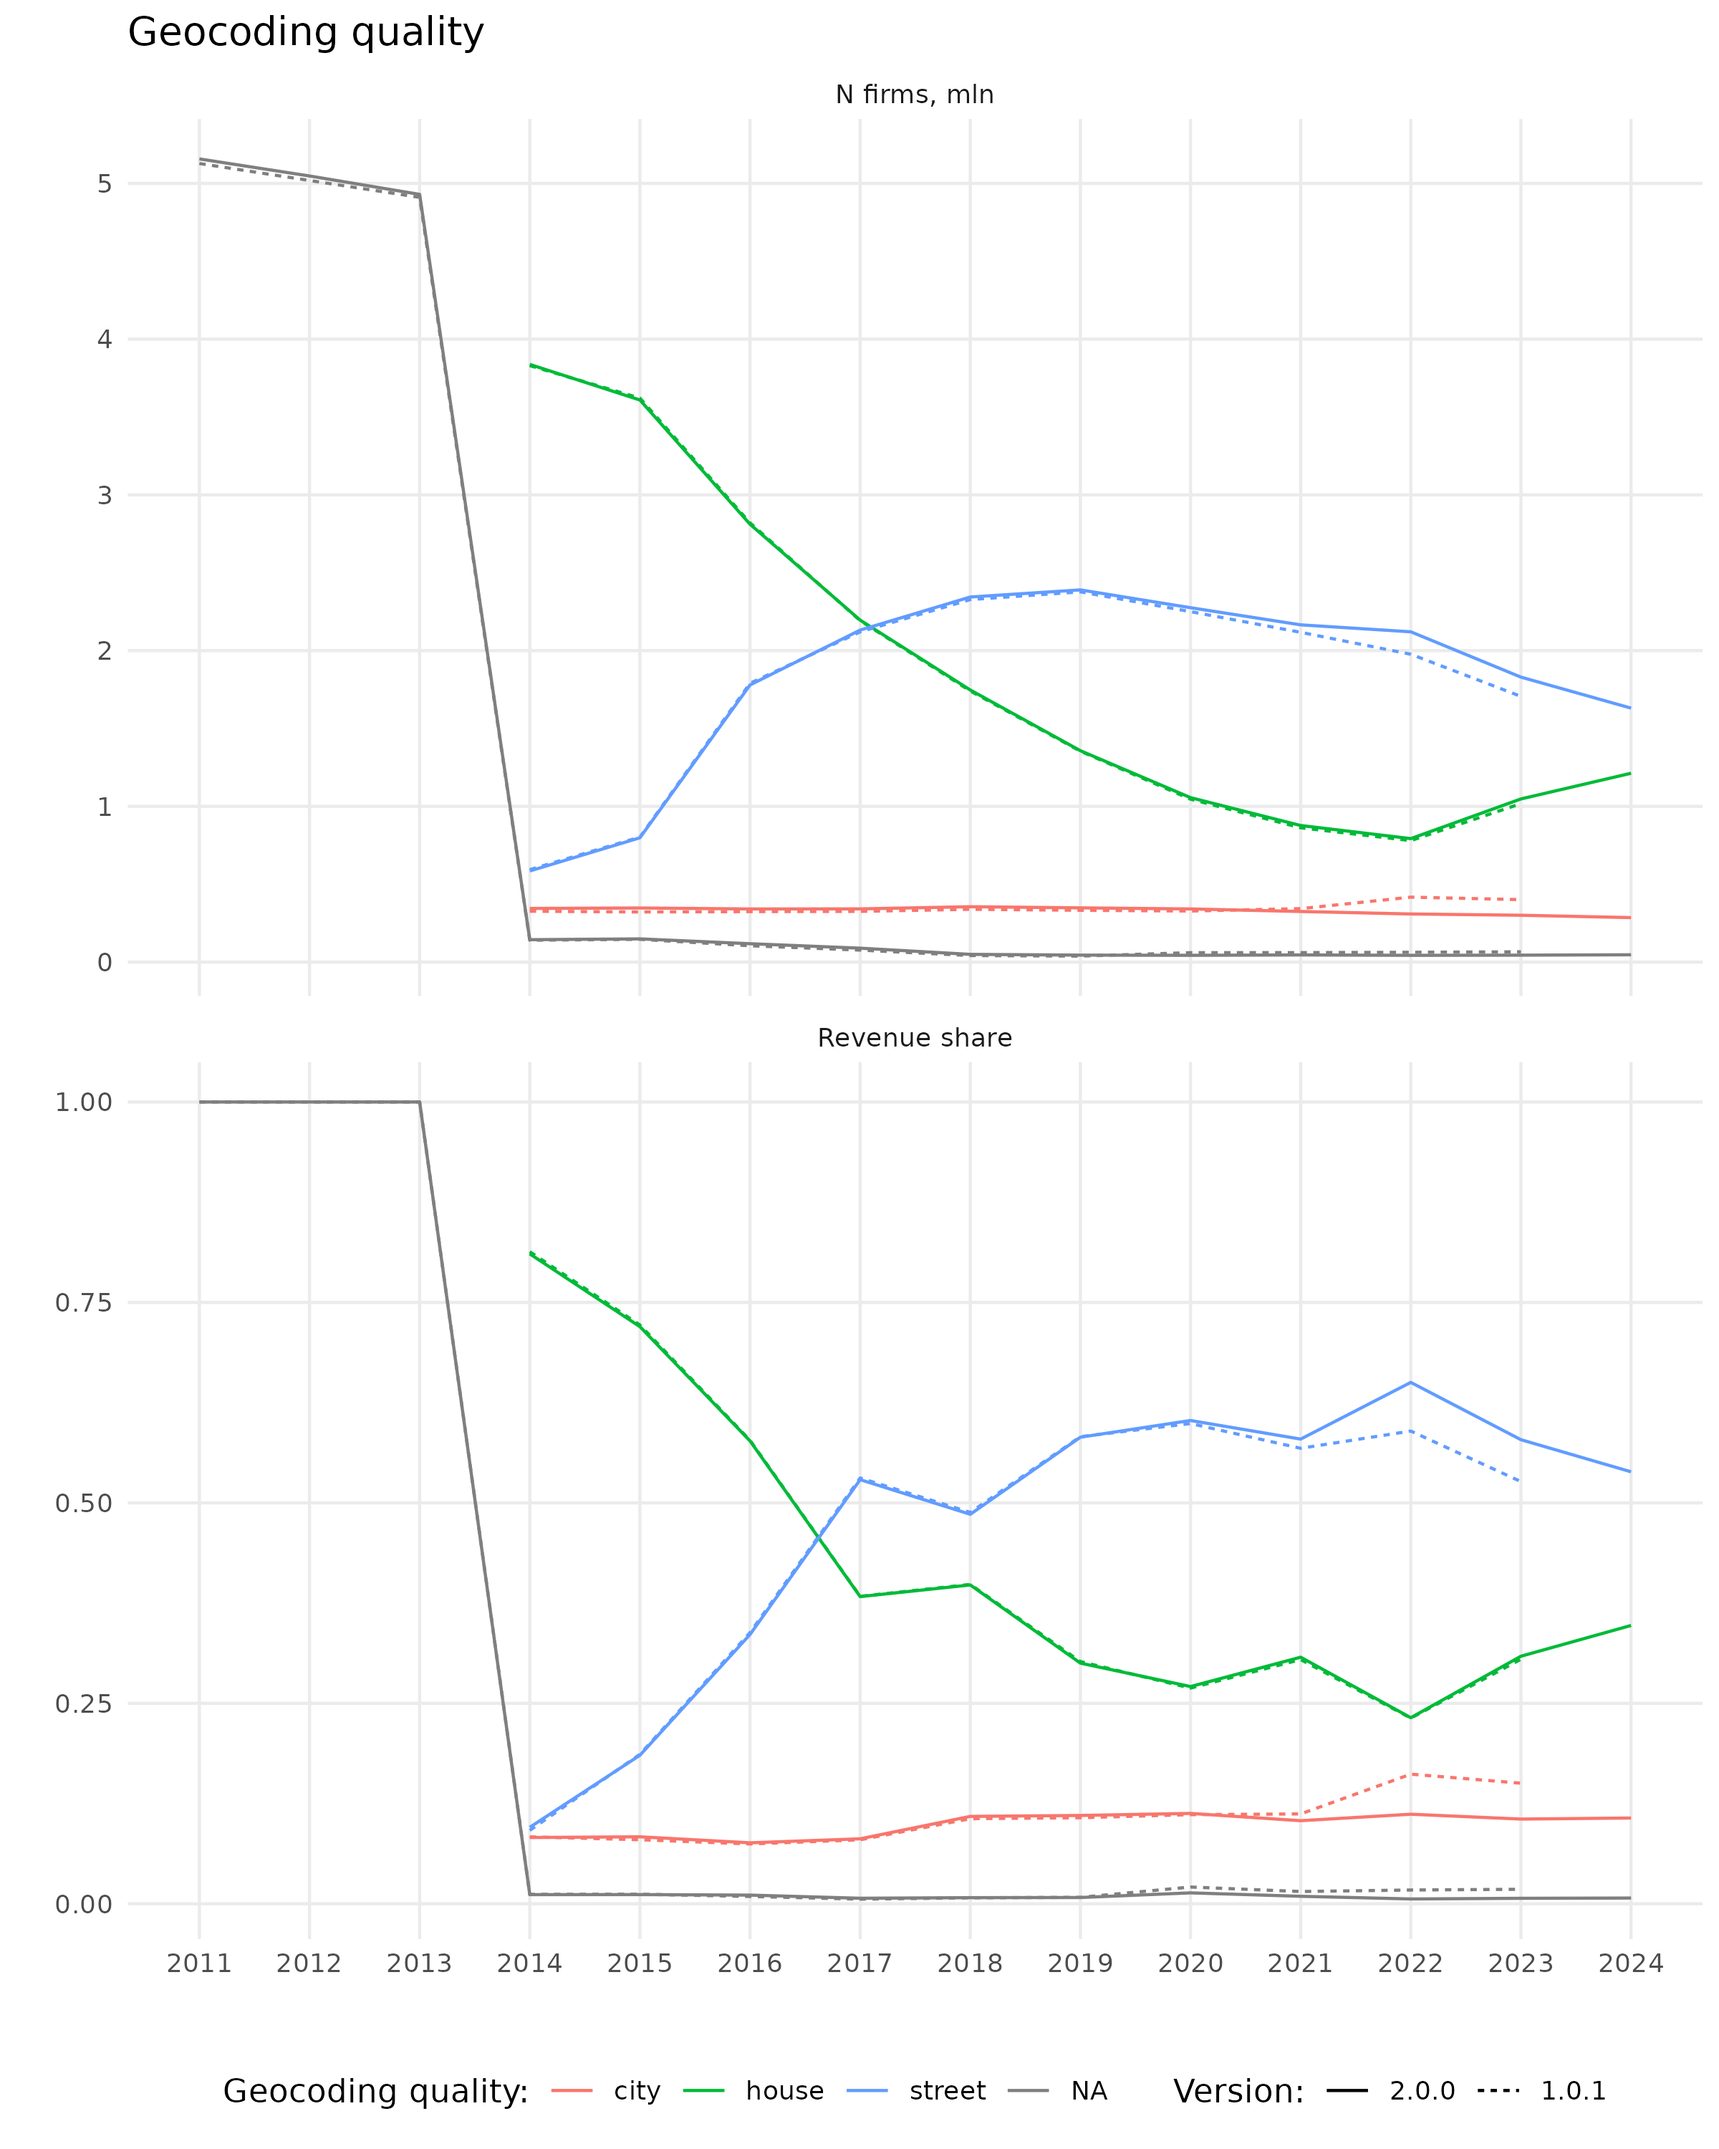
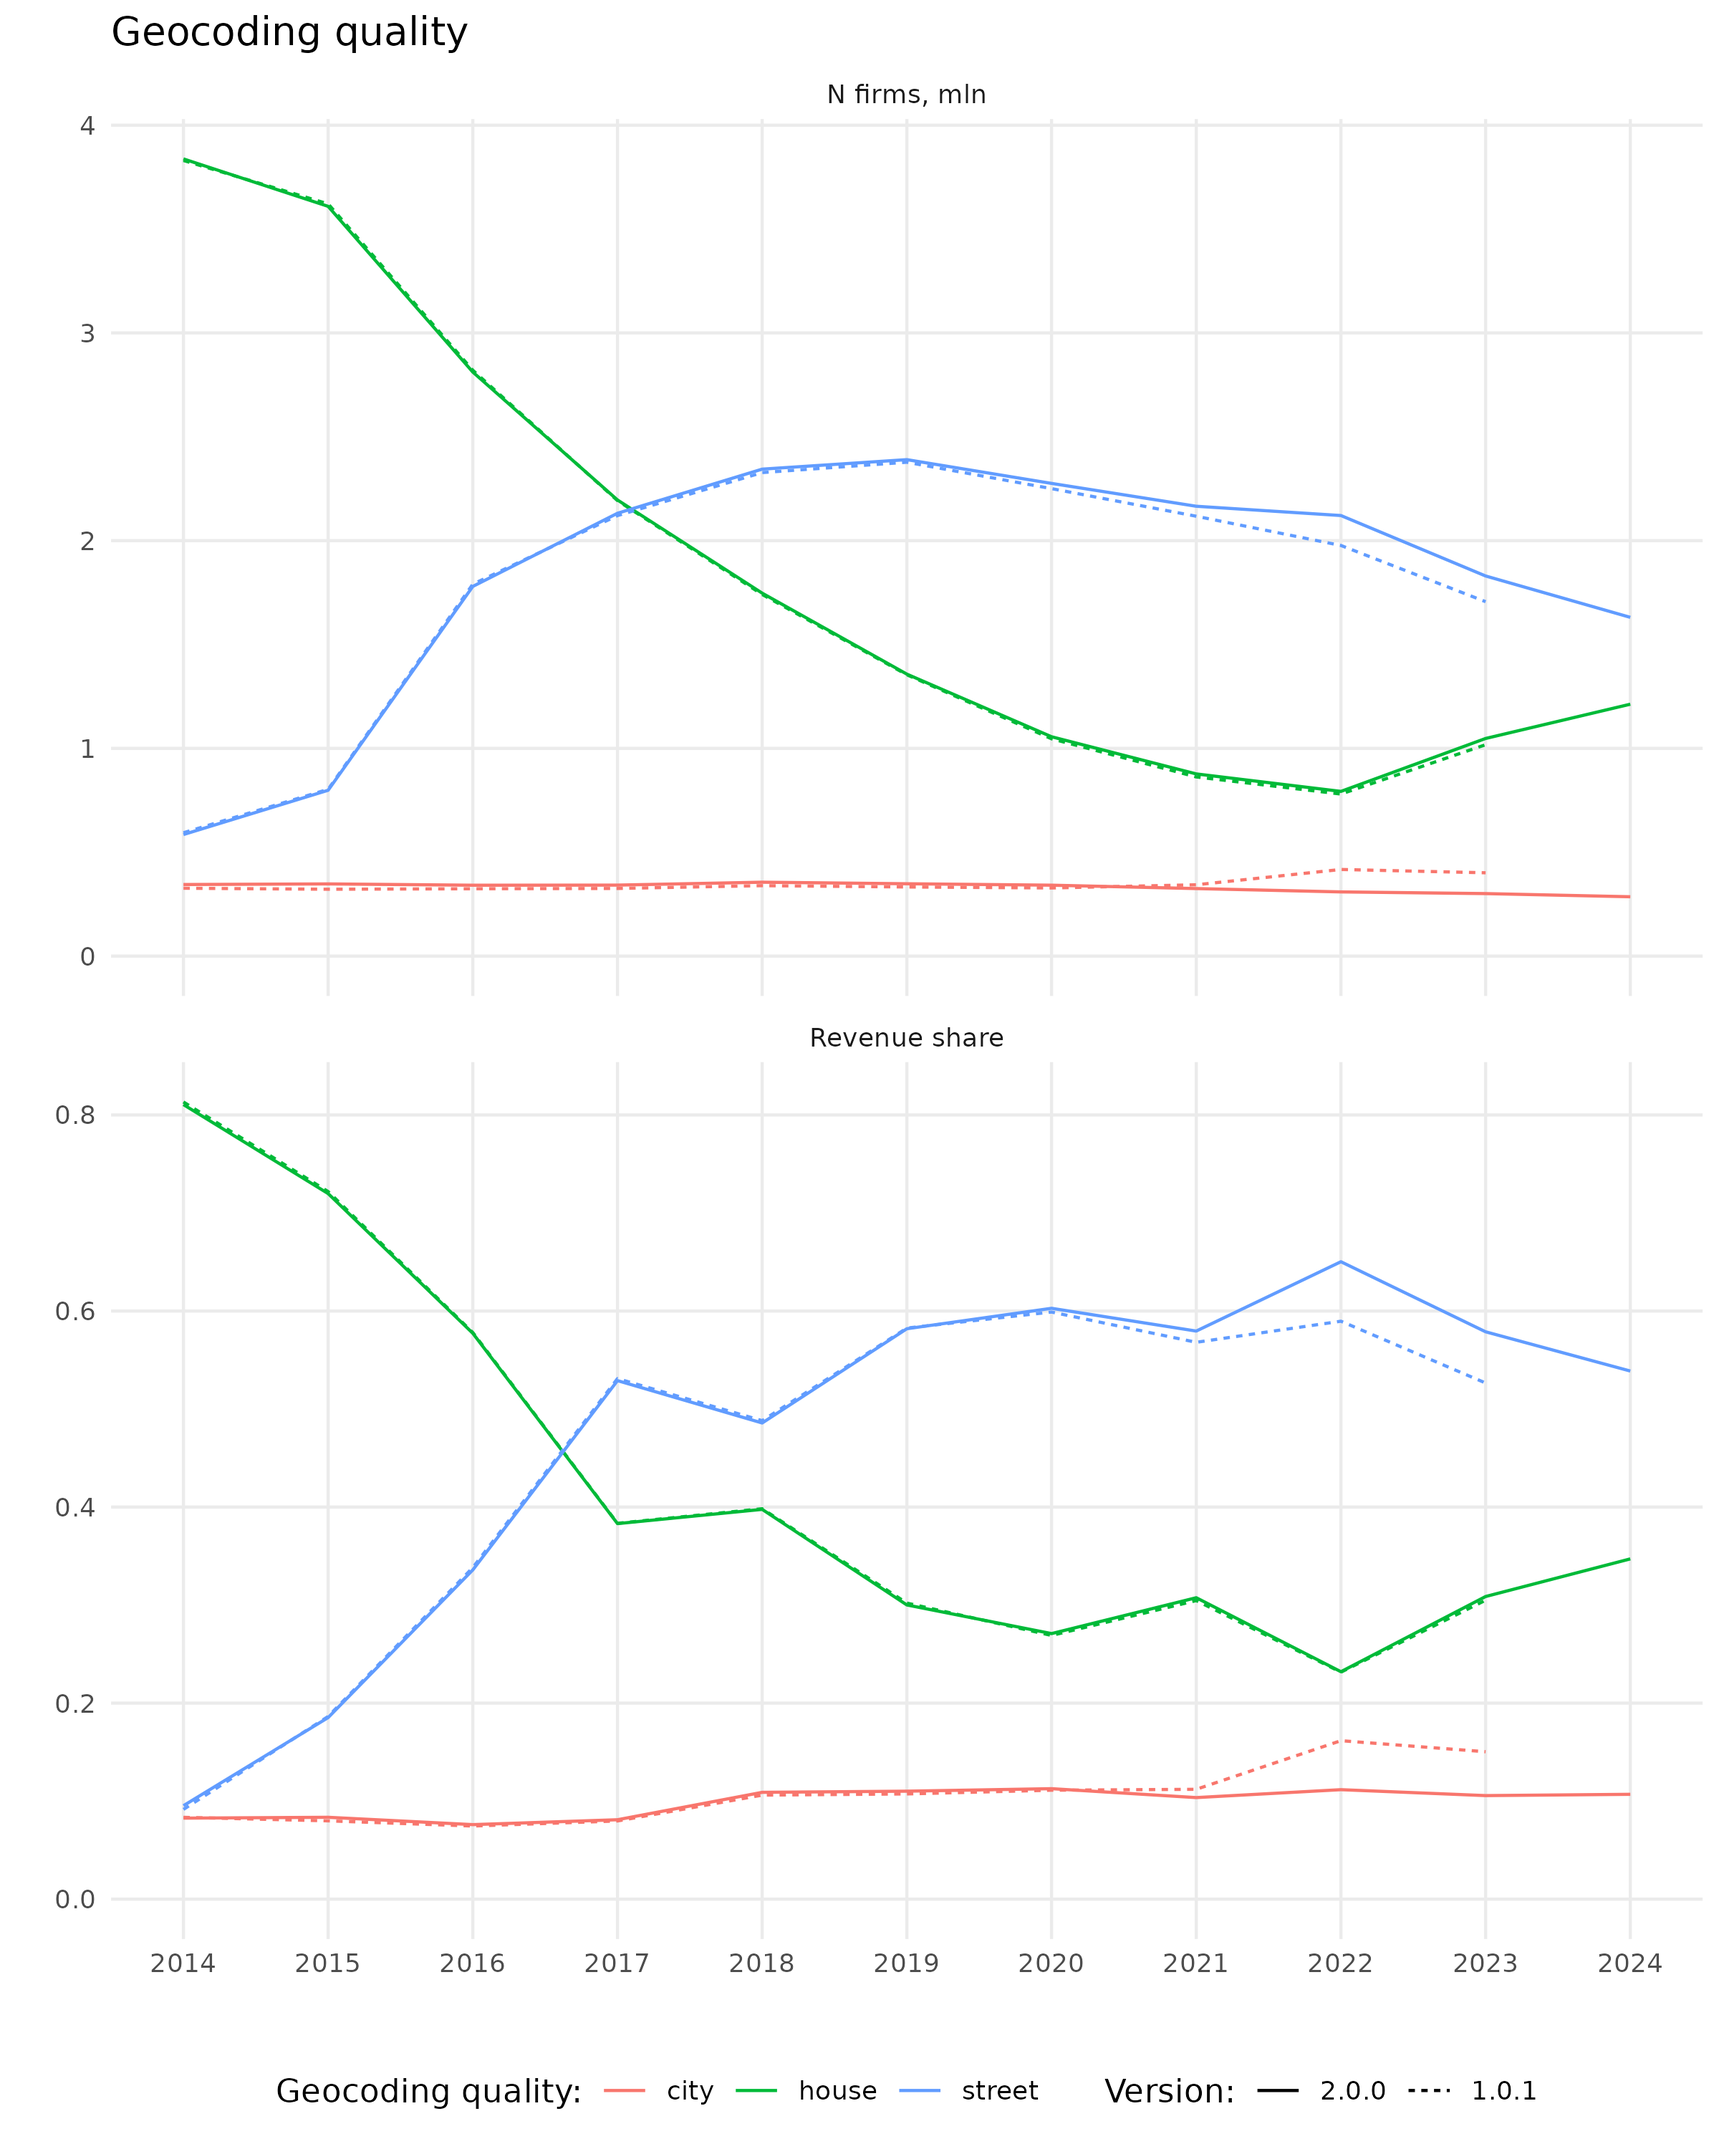
update README.md: fixed plots, added items to Changed

diff --git a/README.md b/README.md
@@ -268,7 +268,10 @@ All notable changes to this project will be documented below. The format is base
 - Resolved a bug in the pre-publishing filtering of the panel. We removed all non-eligible non-filers, as intended, but inadvertently excluded observations of non-eligible non-filers whose statements in year X we were able to reconstruct from statements in X+1.
 
 ### Changed
-- The `filed` flag for observed but empty (all-zero) statements is now set to 0. The change it brings is evident on the plot below:
+- The `region_taxcode` now reflects a firm's region of incorporation (previously derived from a firm's INN, which resulted in inaccuracies). The format has been extended from 2 to 4 digits, allowing for differentiation between Arkhangelskaya oblast (`"2900"`) and Nenetskiy AO (`"2983"`), which the former includes.
+- We have revised the statements of all firms previously marked as `outlier` and set the flag to 0 where anomalous revenue has been corrected in the GIR BO database retrospectively.
+- The outlier detection procedure has been updated: now, for each OKVED letter-section, we manually review the statements of the top 30 firms by stated revenue in the last observed year (all statements of these firms are reviewed, not just the most recent one).
+- The `filed` flag for observed but empty (all fields, even Equity, is 0) statements is now set to 0 as it is clearly erroneous. The change this brings is evident on the plot below:
 <div align="center" width="60%">
     <img src="figures/whats_new_2.0.0_filing.png" alt="Line plot of number of eligible firms, filed and imputed statements by year" />
 </div>
